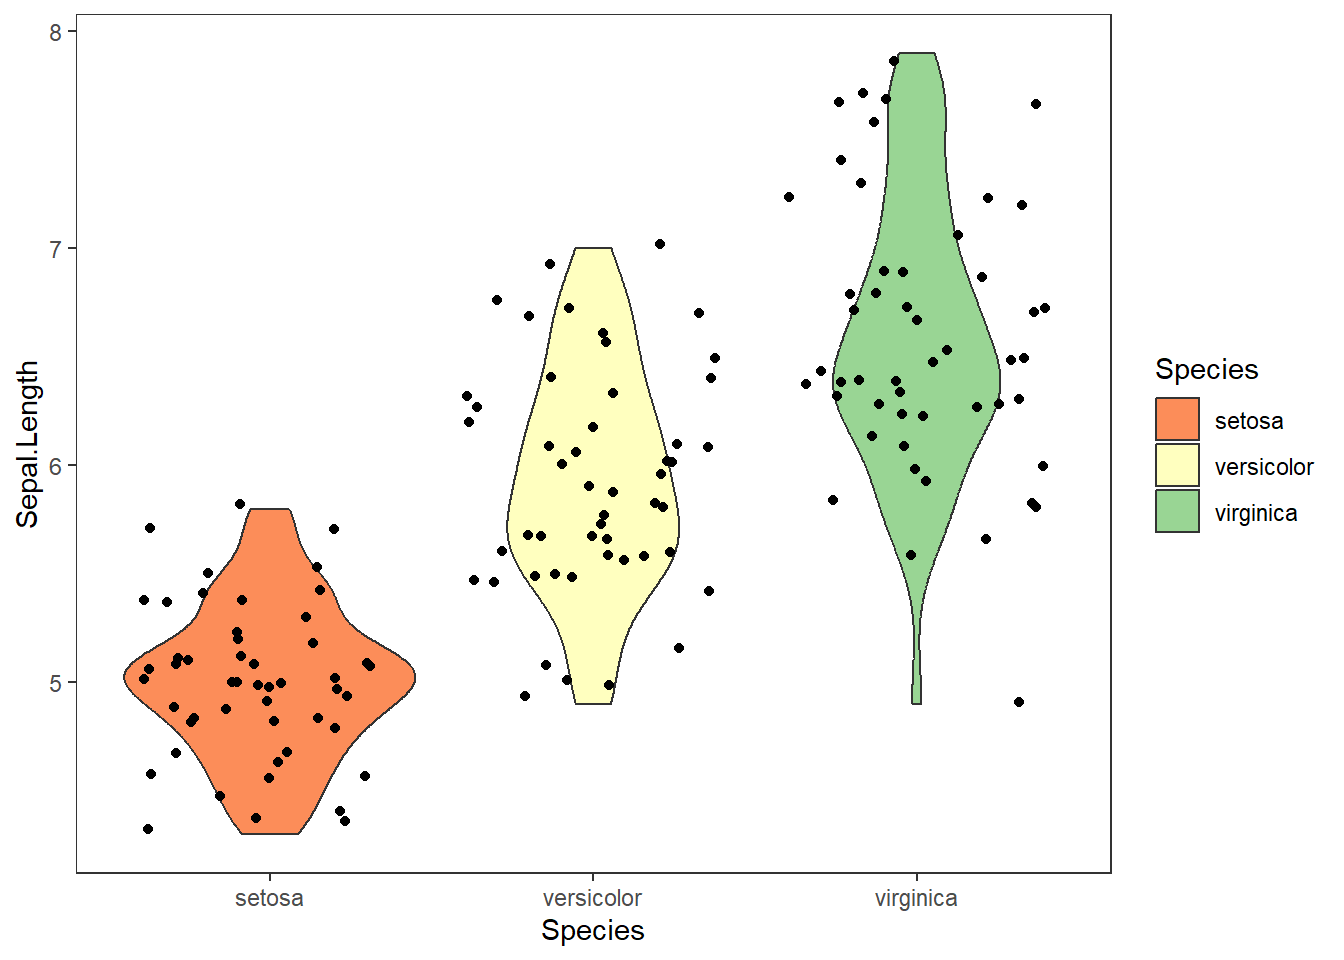
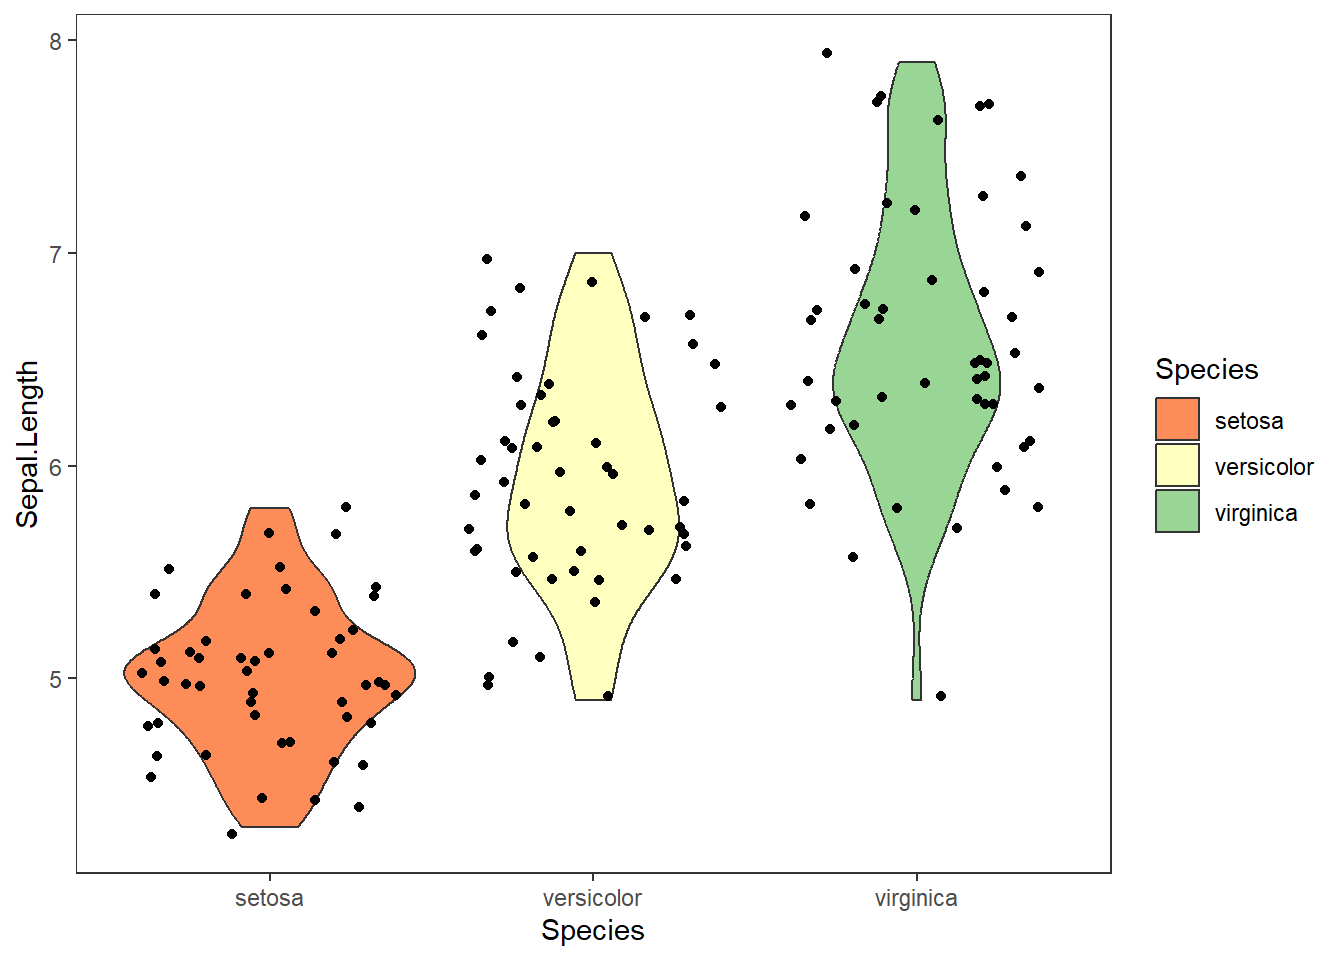
summary

diff --git a/9.Manual_mv_26/html/index.html b/9.Manual_mv_26/html/index.html
@@ -217,7 +217,6 @@ ul.task-list li input[type="checkbox"] {
 <p><span class="titulo-seccion">Repositorio de Talleres de Multivariados - 2026</span></p>
 <p><span class="titulo-seccion">Javier Rodríguez-Barrios</span></p>
 <p><span class="titulo-seccion">Programa de Biología</span></p>
-<p><span class="titulo-seccion">“Actualizado: <code>r Sys.Date()</code>”</span></p>
 <p>El siguiente documento es un compendio de temas vistos en el componente práctico de la asignatura Estadística Multivariada del programa de Biología. Se fundamenta en cinco grandes módulos:</p>
 <ul>
 <li><p><span class="titulo-subseccion"><strong>Introducción al RStudio y al algebra lineal aplicada a multivariados.</strong></span></p></li>

diff --git a/9.Manual_mv_26/html/Pautas_Estudio_Caso.html b/9.Manual_mv_26/html/Pautas_Estudio_Caso.html
@@ -1837,10 +1837,10 @@ Data:     spe[, -1]
 Distance: bray 
 
 Dimensions: 2 
-Stress:     0.1362224 
+Stress:     0.1362223 
 Stress type 1, weak ties
-Best solution was repeated 4 times in 20 tries
-The best solution was from try 5 (random start)
+Best solution was repeated 7 times in 20 tries
+The best solution was from try 9 (random start)
 Scaling: centring, PC rotation, halfchange scaling 
 Species: expanded scores based on 'spe[, -1]' </code></pre>
 </div>
